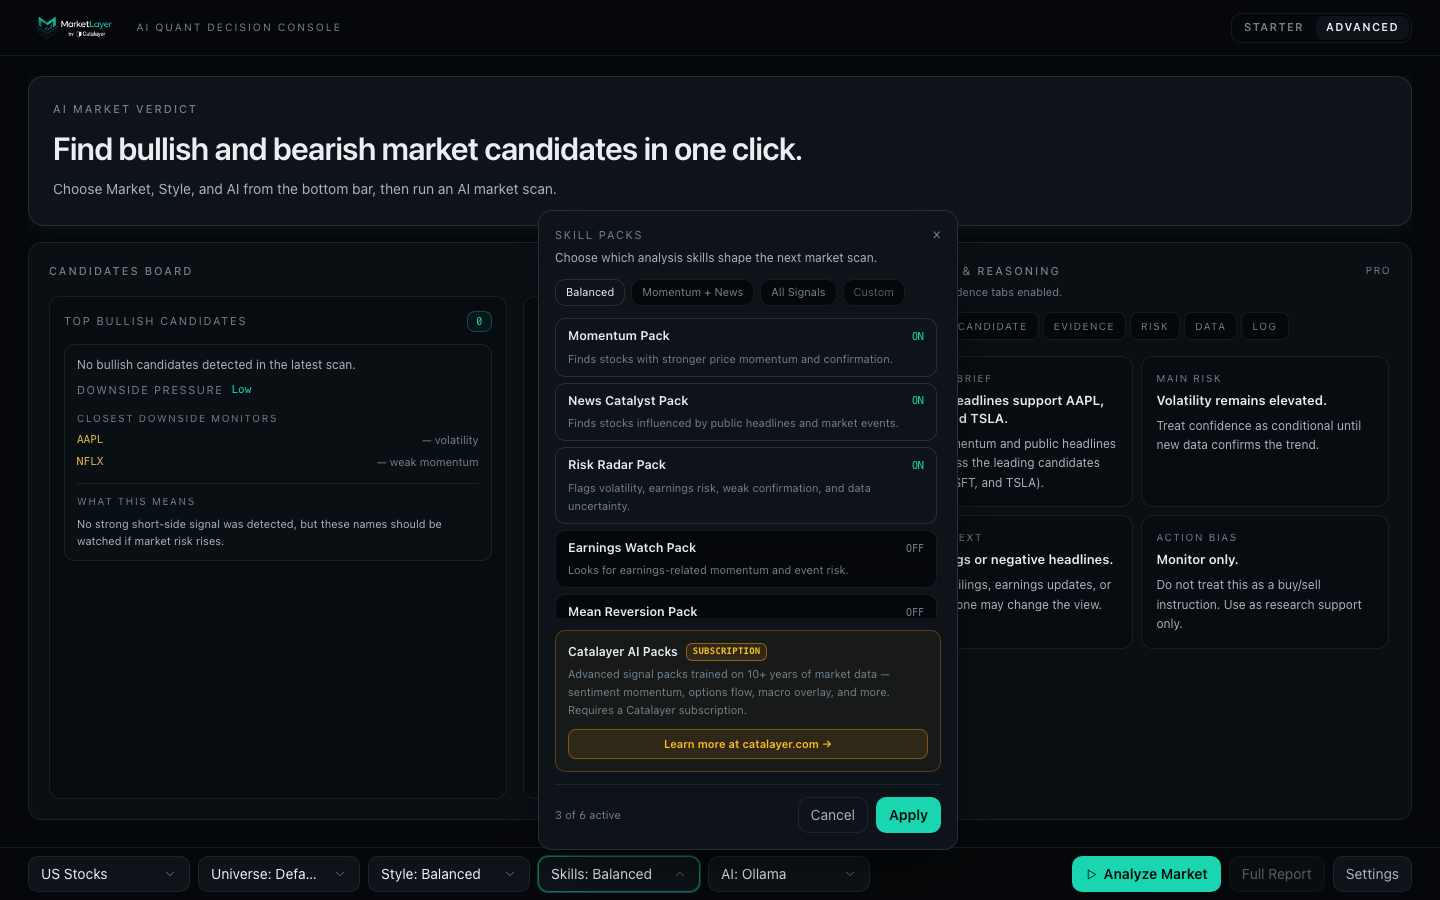
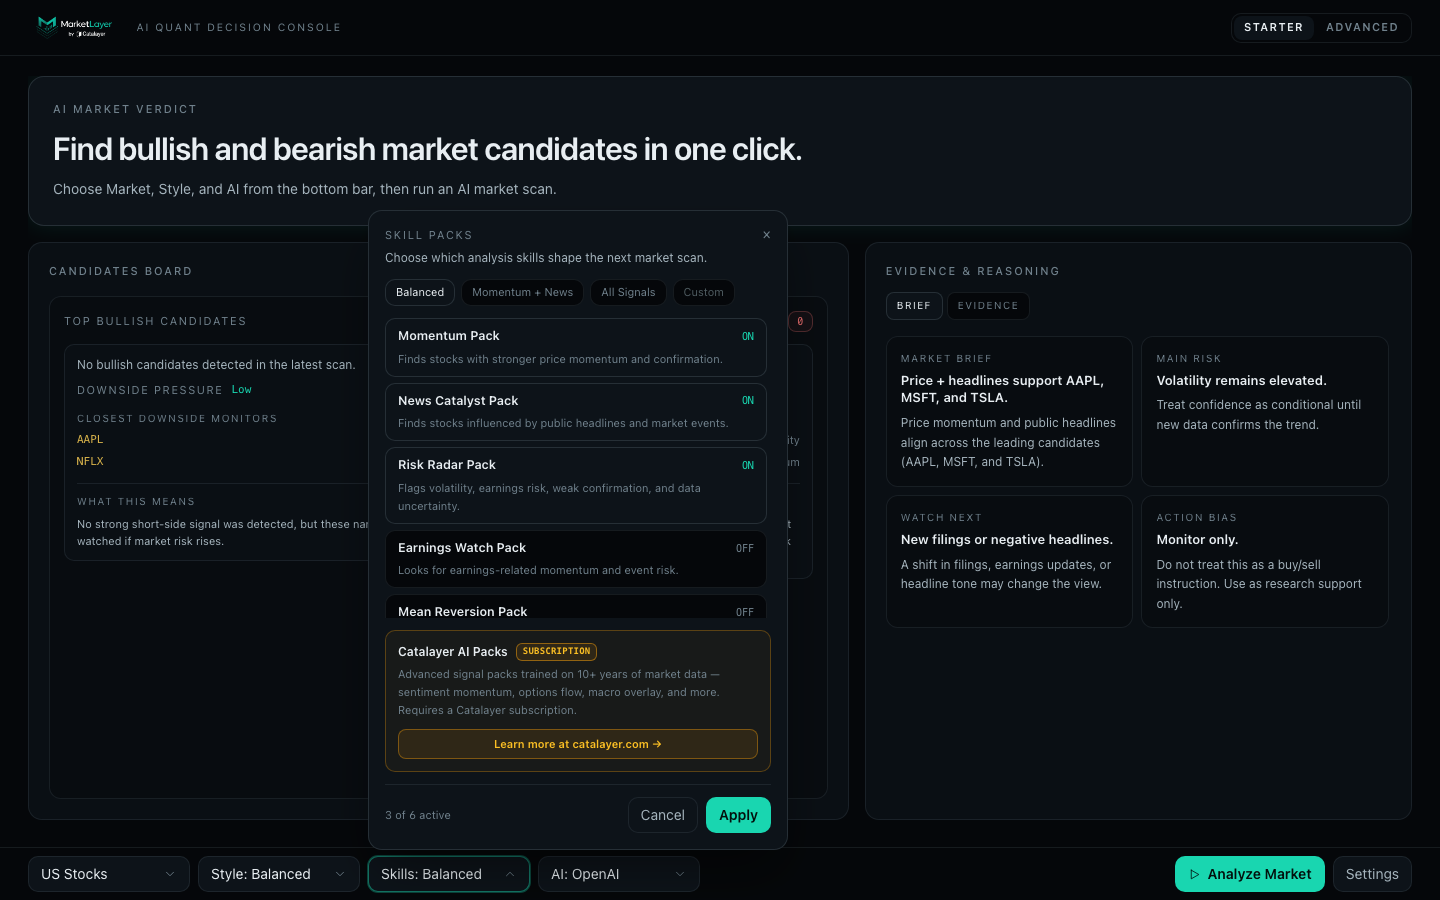
v1.0.0: naming unification, screenshots, TRADEMARKS, brand boundary, security audit
- Rename all user-facing "Pro Mode" display text to "Advanced Mode" across
  ModeSelection, ConnectAI, StarterHome, StarterStatusTags, ModeSwitch,
  ApiDocs, StrategyLab; internal code identifiers (isPro, mode="pro") unchanged
- Add TRADEMARKS.md with full brand/trademark policy
- Rewrite OPEN_SOURCE_BOUNDARY.md with expanded structure and Ollama/OpenAI/Anthropic config block
- Capture 5 v1.0.0 screenshots via Playwright (mode-selection, starter-mode,
  advanced-mode, settings-drawer, skill-packs)
- Update README hero image and screenshots table to new filenames
- Update capture-screenshots.mjs to canonical v1.0.0 form

diff --git a/frontend/src/pages/StarterHome.tsx b/frontend/src/pages/StarterHome.tsx
@@ -699,7 +699,7 @@ function ControlColumn({
           className="w-full border border-ml-border bg-ml-panel px-4 py-3 text-left transition-colors hover:border-ml-border-strong hover:bg-ml-panel-hover"
         >
           <div className="text-[12px] font-medium text-ml-text">Need more control?</div>
-          <div className="mt-1 text-[12px] text-ml-accent">Open Pro Mode →</div>
+          <div className="mt-1 text-[12px] text-ml-accent">Open Advanced Mode →</div>
           <div className="mt-2 text-[10px] leading-relaxed text-ml-text-muted">
             Strategies · Signals · Risk · Providers
           </div>
@@ -2096,7 +2096,7 @@ function HeroConsole({
     <section className="ml-panel-strong border-ml-accent/25 p-4 shadow-glow">
       <div className="flex items-start justify-between gap-4 flex-wrap">
         <div>
-          <div className="ml-label">{isPro ? "Pro Mode" : "AI Market Report"}</div>
+          <div className="ml-label">{isPro ? "Advanced Mode" : "AI Market Report"}</div>
           <h1 className="mt-2 max-w-3xl text-2xl md:text-3xl font-semibold tracking-tight text-ml-text">
             {isPro
               ? "Pro Control Console"
@@ -2437,7 +2437,7 @@ function SkillsPicker({
           className="pointer-events-none absolute bottom-[calc(100%+8px)] left-1/2 z-50 -translate-x-1/2 opacity-0 transition-opacity duration-200 group-hover:opacity-100"
         >
           <div className="whitespace-nowrap rounded-[8px] border border-ml-border-strong bg-ml-bg-elev px-3 py-1.5 text-[11px] text-ml-text-dim shadow-2xl shadow-black/50">
-            Switch to <span className="font-semibold text-ml-accent">Pro Mode</span> to customize Skills.
+            Switch to <span className="font-semibold text-ml-accent">Advanced Mode</span> to customize Skills.
           </div>
           <div className="absolute left-1/2 top-full h-0 w-0 -translate-x-1/2 border-x-[5px] border-t-[5px] border-x-transparent border-t-ml-border-strong" />
         </div>
@@ -3342,7 +3342,7 @@ function SettingsDrawer({
           <div className="ml-label">Current mode</div>
           <div className="mt-2 flex items-baseline gap-2">
             <span className="text-[14px] font-semibold text-ml-text">
-              {mode === "pro" ? "Pro Mode" : "Starter Mode"}
+              {mode === "pro" ? "Advanced Mode" : "Starter Mode"}
             </span>
             <span className="text-[11px] text-ml-text-muted">Switch mode from the top bar.</span>
           </div>

diff --git a/frontend/src/pages/ModeSelection.tsx b/frontend/src/pages/ModeSelection.tsx
@@ -63,13 +63,13 @@ export function ModeSelection() {
               size={24}
               className="text-ml-text-dim group-hover:text-ml-accent transition-colors"
             />
-            <h2 className="mt-5 text-2xl font-semibold text-ml-text">Pro Mode</h2>
+            <h2 className="mt-5 text-2xl font-semibold text-ml-text">Advanced Mode</h2>
             <p className="mt-2 text-[14px] text-ml-text-dim leading-relaxed">
               Same console with deeper control: universe, full skill packs,
               advanced evidence tabs, and the full report.
             </p>
             <div className="mt-6 inline-flex h-8 items-center justify-center gap-1.5 rounded-[10px] border border-ml-border-strong bg-ml-panel-2 px-3.5 text-sm leading-none text-ml-text-dim transition-colors group-hover:border-ml-accent/55 group-hover:text-ml-text w-fit">
-              Open Pro Mode <Icon name="arrow-right" size={12} />
+              Open Advanced Mode <Icon name="arrow-right" size={12} />
             </div>
           </button>
         </section>

diff --git a/frontend/src/pages/ApiDocs.tsx b/frontend/src/pages/ApiDocs.tsx
@@ -25,7 +25,7 @@ export function ApiDocs() {
         <h1 className="mt-2 text-2xl font-semibold">MarketLayer API Docs</h1>
         <p className="mt-1 max-w-3xl text-[13px] leading-relaxed text-ml-text-dim">
           Local API reference for the open-source MarketLayer backend. These
-          routes power both Starter Mode and Pro Mode; they do not connect to
+          routes power both Starter Mode and Advanced Mode; they do not connect to
           brokerages or perform market actions.
         </p>
       </header>
@@ -49,7 +49,7 @@ export function ApiDocs() {
       </section>
 
       <RouteSection title="Starter Mode Routes" rows={STARTER_ROUTES} />
-      <RouteSection title="Pro Mode Routes" rows={PRO_ROUTES} />
+      <RouteSection title="Advanced Mode Routes" rows={PRO_ROUTES} />
 
       <section className="ml-panel p-5">
         <div className="ml-label">Provider & Mode Routes</div>

diff --git a/frontend/src/pages/ConnectAI.tsx b/frontend/src/pages/ConnectAI.tsx
@@ -119,7 +119,7 @@ export function ConnectAI() {
             <p className="mt-1 text-[12px] text-ml-text-dim">
               Current mode:{" "}
               <span className="font-medium text-ml-text">
-                {mode === "starter" ? "Starter Mode" : "Pro Mode"}
+                {mode === "starter" ? "Starter Mode" : "Advanced Mode"}
               </span>
             </p>
           </div>
@@ -132,7 +132,7 @@ export function ConnectAI() {
             onClick={() => setMode("starter")}
           />
           <ExperienceModeCard
-            title="Pro Mode"
+            title="Advanced Mode"
             active={mode === "pro"}
             body="Full control over data, news, strategy packs, signals, risk, and AI providers."
             onClick={() => setMode("pro")}

diff --git a/frontend/src/components/StarterStatusTags.tsx b/frontend/src/components/StarterStatusTags.tsx
@@ -41,7 +41,7 @@ export function StarterStatusTags() {
 
   return (
     <div className="flex flex-wrap items-center gap-2">
-      <StatusTag>{mode === "pro" ? "Pro" : "Starter"}</StatusTag>
+      <StatusTag>{mode === "pro" ? "Advanced" : "Starter"}</StatusTag>
       <StatusTag title={providerName !== "None" ? `Provider: ${providerName}` : undefined}>
         {aiStatus}
       </StatusTag>

diff --git a/frontend/src/pages/StrategyLab.tsx b/frontend/src/pages/StrategyLab.tsx
@@ -65,7 +65,7 @@ export function StrategyLab() {
           Strategy packs
         </h1>
         <p className="mt-1 text-[13px] text-ml-text-dim max-w-2xl">
-          Built-in strategy packs used automatically in Starter Mode and inspectable in Pro Mode.
+          Built-in strategy packs used automatically in Starter Mode and inspectable in Advanced Mode.
         </p>
       </header>
 

diff --git a/frontend/src/components/ModeSwitch.tsx b/frontend/src/components/ModeSwitch.tsx
@@ -45,7 +45,7 @@ export function ModeSwitch({ compact }: { compact?: boolean }) {
             : "text-ml-text-muted hover:text-ml-text",
         ].join(" ")}
       >
-        Pro
+        Advanced
       </button>
     </div>
   );

diff --git a/OPEN_SOURCE_BOUNDARY.md b/OPEN_SOURCE_BOUNDARY.md
@@ -1,14 +1,12 @@
 # Open Source Boundary
 
-This document defines what is included in the MarketLayer by Catalayer open-source repository and what belongs to Catalayer's private infrastructure.
+This document defines what is and is not included in the MarketLayer by Catalayer open-source repository.
 
 ---
 
-## What is Open Source (This Repo)
+## What This Repository Includes (Open Source)
 
-MarketLayer is an **open-core** AI research console for US equities.
-
-The following are fully open-source and freely usable under the project license:
+MarketLayer is **open-core** software. The following are fully open-source and freely usable under the Apache 2.0 license:
 
 | Component | Included |
 |-----------|----------|
@@ -25,15 +23,16 @@ The following are fully open-source and freely usable under the project license:
 | Stooq price data connector | ✅ |
 | SEC EDGAR filing connector | ✅ |
 | Rule-based scoring and risk logic | ✅ |
-| Skill Packs (Momentum, News Catalyst, etc.) | ✅ |
+| Skill Packs (Momentum, News Catalyst, Risk Radar, Earnings Watch, Mean Reversion, Sector Rotation) | ✅ |
 | Settings UI | ✅ |
 | Catalayer AI placeholder integration | ✅ (UI + stub only) |
 | Catalayer News placeholder | ✅ (UI + stub only) |
 | Catalayer AI Packs placeholder | ✅ (UI + stub only) |
+| Full documentation and security audit report | ✅ |
 
 ---
 
-## What is NOT in This Repo (Catalayer Private)
+## What This Repository Does NOT Include (Catalayer Private)
 
 The following belong to Catalayer's private backend and are **not included** in this repository:
 
@@ -50,32 +49,19 @@ The following belong to Catalayer's private backend and are **not included** in 
 | Catalayer private model weights | ❌ Not included |
 | Catalayer private training datasets | ❌ Not included |
 | Catalayer private prompts | ❌ Not included |
-| Catalayer internal news aggregation | ❌ Not included |
+| Catalayer internal news aggregation pipeline | ❌ Not included |
+| Catalayer AI Packs signal logic | ❌ Not included |
 | Hidden Catalayer API calls | ❌ Not included |
 | Hardcoded Catalayer production keys | ❌ Not included |
 
 ---
 
-## Catalayer Premium Integration
-
-The Catalayer AI, Catalayer News, and Catalayer AI Packs features in this repo are **integration stubs only**:
-
-- The UI shows subscription prompts and links to `catalayer.com`
-- If a user provides a valid Catalayer-issued API key, the integration stub forwards requests to the configured Catalayer endpoint
-- **No Catalayer key is generated, validated, or stored by this repo**
-- The open-source MarketLayer product is fully functional without Catalayer using:
-  - OpenAI, Claude, Gemini, or Ollama as AI provider
-  - Yahoo Finance RSS or Google News RSS as news sources
-  - Stooq and SEC EDGAR as public data sources
-
----
-
 ## Running Without Catalayer
 
-MarketLayer works fully without any Catalayer subscription:
+MarketLayer works fully without any Catalayer subscription. Configure your preferred AI provider in `backend/.env`:
 
 ```bash
-# Use Ollama (free, local)
+# Ollama (free, fully local — recommended)
 AI_PROVIDER=ollama
 OLLAMA_BASE_URL=http://localhost:11434
 OLLAMA_MODEL=gemma4:e4b
@@ -89,10 +75,25 @@ AI_PROVIDER=anthropic
 ANTHROPIC_API_KEY=your-own-key
 ```
 
+Every feature — Starter Mode, Advanced Mode, all skill packs, settings, and API docs — is fully functional with any of the above providers. No Catalayer account is required.
+
+---
+
+## Catalayer Premium Integration
+
+The Catalayer AI, Catalayer News, and Catalayer AI Packs features in this repo are **integration stubs only**:
+
+- The UI shows subscription prompts and links to [catalayer.com](https://catalayer.com)
+- If a user provides a valid Catalayer-issued API key, the integration stub forwards requests to the configured Catalayer endpoint
+- **No Catalayer key is generated, validated, or stored by this repo**
+- All Catalayer keys are issued exclusively at [catalayer.com](https://catalayer.com)
+
+The open-source MarketLayer product is fully functional without Catalayer using OpenAI, Anthropic, Gemini, or Ollama as the AI provider and Yahoo Finance RSS, Google News RSS, Stooq, and SEC EDGAR as public data sources.
+
 ---
 
 ## License
 
-This open-source repository is licensed under the terms in [LICENSE](LICENSE).
+Apache License 2.0 covers the **source code** only. See [LICENSE](LICENSE).
 
-Catalayer brand assets, logos, API infrastructure, proprietary models, and private datasets are **not** covered by the open-source license and remain the property of Catalayer.
+Catalayer brand assets, logos, trademarks, proprietary models, and private datasets are **not** covered by the Apache 2.0 license. See [TRADEMARKS.md](TRADEMARKS.md) for brand usage guidelines.

diff --git a/TRADEMARKS.md b/TRADEMARKS.md
@@ -1,0 +1,55 @@
+# Trademarks and Brand Assets
+
+## Code License vs. Brand License
+
+The source code in this repository is licensed under the **Apache License 2.0**. See [LICENSE](LICENSE).
+
+The Apache 2.0 license grants rights to use, modify, and distribute the **source code**. It does **not** grant rights to use Catalayer brand assets, trademarks, or logos.
+
+## Catalayer Trademarks
+
+The following names, logos, and brand assets are trademarks of Catalayer and are **not** covered by the Apache 2.0 license:
+
+- **Catalayer** — company name and brand
+- **MarketLayer by Catalayer** — product name
+- **Catalayer AI** — AI service name
+- **Catalayer News** — news service name
+- **Catalayer AI Packs** — premium pack service name
+- All Catalayer logos, icons, and visual brand assets
+
+## What You May Do
+
+Under the Apache 2.0 license, you may:
+
+- Use, study, modify, and distribute the **source code** of MarketLayer.
+- Build your own derivative product based on this codebase.
+- Reference "MarketLayer by Catalayer" to describe the origin of the codebase you forked from.
+
+## What You May NOT Do
+
+Without explicit written permission from Catalayer, you may **not**:
+
+- Use the Catalayer name, MarketLayer by Catalayer name, or any Catalayer trademark in a way that implies official endorsement or affiliation.
+- Distribute a modified version of MarketLayer while presenting it as an official Catalayer product.
+- Use Catalayer logos or brand visuals in your own product UI, marketing, or documentation.
+- Impersonate or misrepresent affiliation with Catalayer in any distribution channel.
+
+## Catalayer Private Infrastructure
+
+This open-source repository does **not** include:
+
+- Catalayer API key generation or validation systems
+- Catalayer account management or billing infrastructure
+- Catalayer private scoring rubrics or model weights
+- Catalayer private training datasets
+- Catalayer News production ingestion pipeline
+- Catalayer AI production middleware or prompt engineering
+- Catalayer AI Packs private signal logic
+
+These remain proprietary to Catalayer and are managed in separate private repositories.
+
+## Contact
+
+For trademark and brand usage questions: legal@catalayer.com  
+For security issues: security@catalayer.com  
+For general questions: [catalayer.com](https://catalayer.com)

diff --git a/README.md b/README.md
@@ -15,7 +15,7 @@
 
 ---
 
-![MarketLayer main console](docs/screenshots/starter-console.png)
+![MarketLayer main console](docs/screenshots/starter-mode.png)
 
 ---
 
@@ -62,12 +62,11 @@ MarketLayer is built by Catalayer and follows the Catalayer product direction, b
 
 | Screenshot | Description |
 |---|---|
-| ![Start screen](docs/screenshots/start-screen.png) | Mode selection — choose Starter or Advanced on first launch |
-| ![Starter console](docs/screenshots/starter-console.png) | Starter Mode — one-click scan with bullish and bearish candidates |
-| ![Advanced console](docs/screenshots/advanced-console.png) | Advanced Mode — full control over universe, skill packs, and risk filters |
-| ![Settings panel](docs/screenshots/settings-panel.png) | Settings drawer — configure your AI provider and news sources |
-| ![Skill packs](docs/screenshots/skill-packs.png) | Skill Packs picker — enable built-in packs or add Catalayer AI Packs |
-| ![Full report](docs/screenshots/full-report.png) | Full Report modal — complete scan output with all data tabs |
+| ![Mode selection](docs/screenshots/mode-selection.png) | Mode selection — choose Starter or Advanced on first launch |
+| ![Starter Mode](docs/screenshots/starter-mode.png) | Starter Mode — one-click market scan for beginners |
+| ![Advanced Mode](docs/screenshots/advanced-mode.png) | Advanced Mode — full control over universe, skill packs, AI provider, and evidence tabs |
+| ![Settings](docs/screenshots/settings-drawer.png) | Settings — connect AI providers and optional Catalayer services |
+| ![Skill Packs](docs/screenshots/skill-packs.png) | Skill Packs — inspect and configure the analysis modules powering each scan |
 
 ---
 
